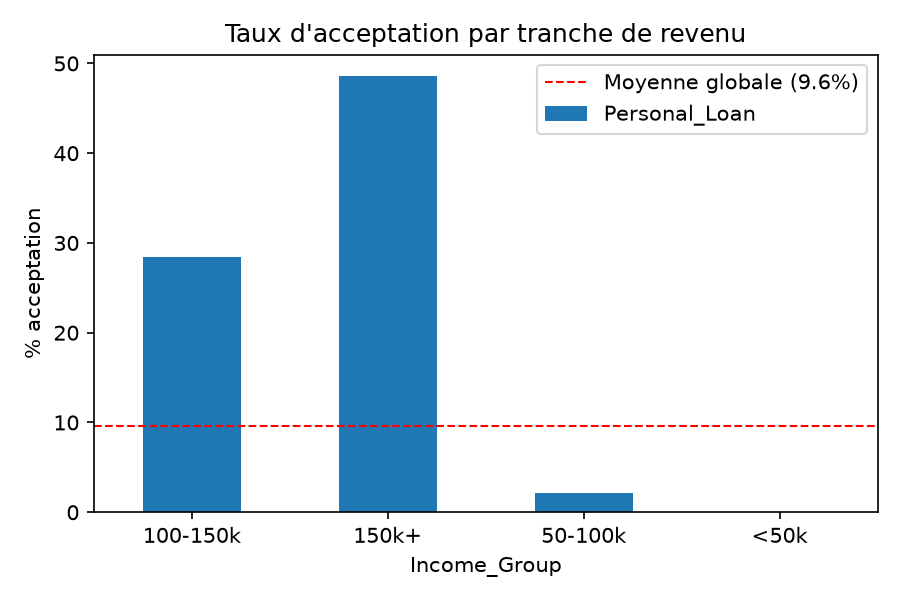
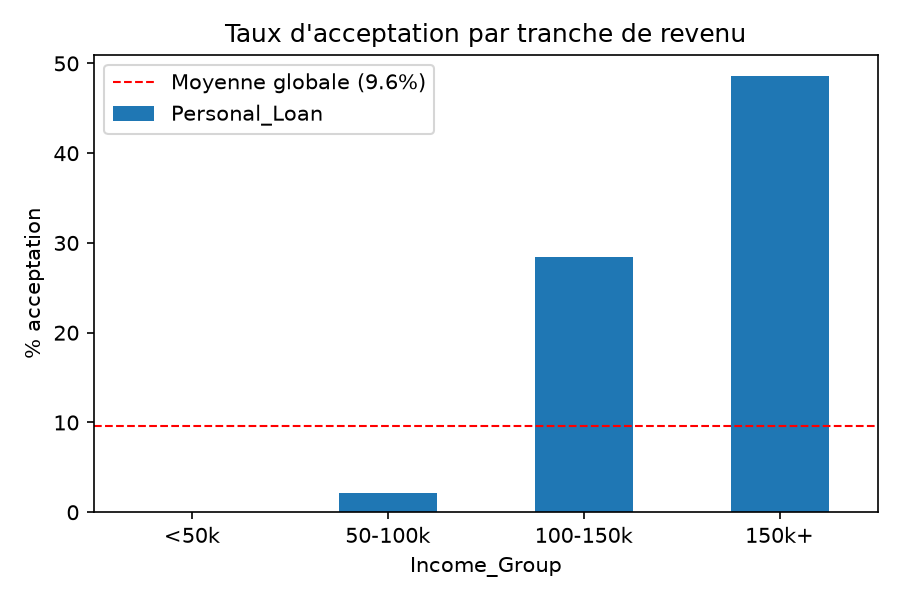
fix: ordre logique des tranches de revenu

diff --git a/src/eda.py b/src/eda.py
@@ -34,7 +34,9 @@ def plot_distribution_cible(df: pd.DataFrame) -> None:
 
 
 def plot_taux_par_revenu(df: pd.DataFrame) -> None:
+    ordre = ["<50k", "50-100k", "100-150k", "150k+"]   # <-- ordre logique
     taux = df.groupby("Income_Group", observed=True)[TARGET].mean() * 100
+    taux = taux.reindex([o for o in ordre if o in taux.index])
     fig, ax = plt.subplots(figsize=(6, 4))
     taux.plot(kind="bar", ax=ax, color=BLEU)
     ax.axhline(df[TARGET].mean() * 100, color="red", ls="--", lw=1,
